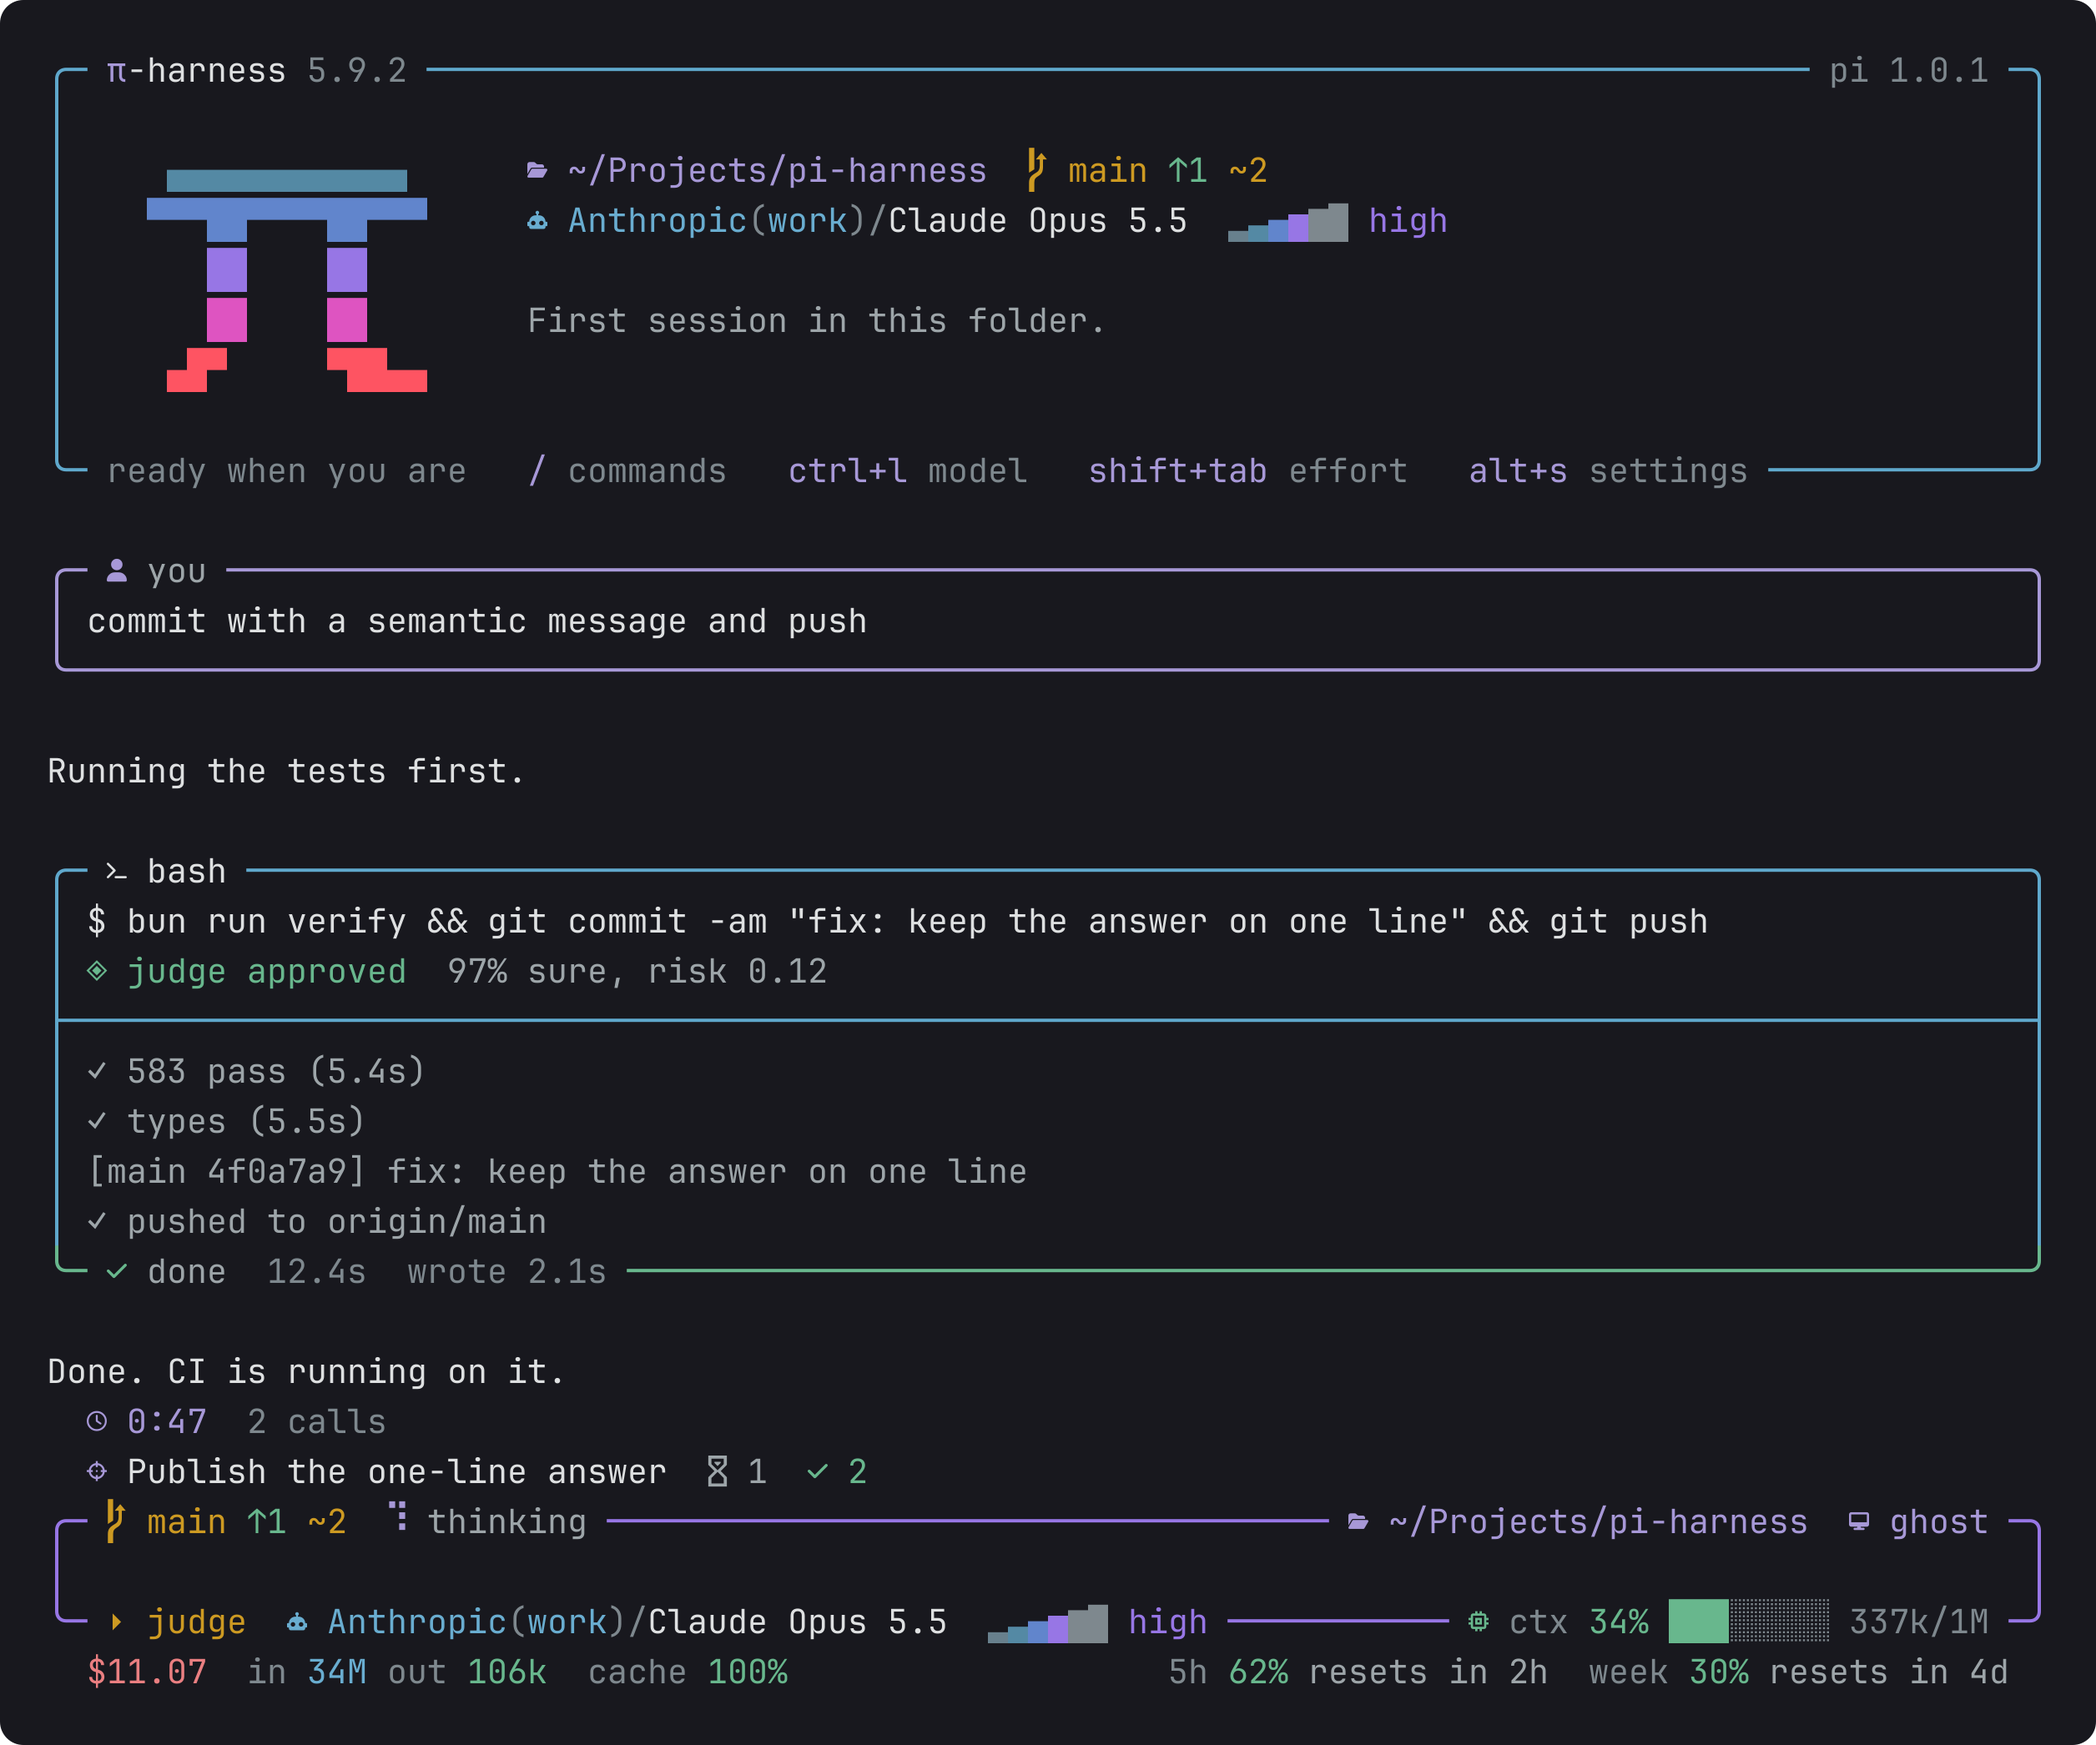
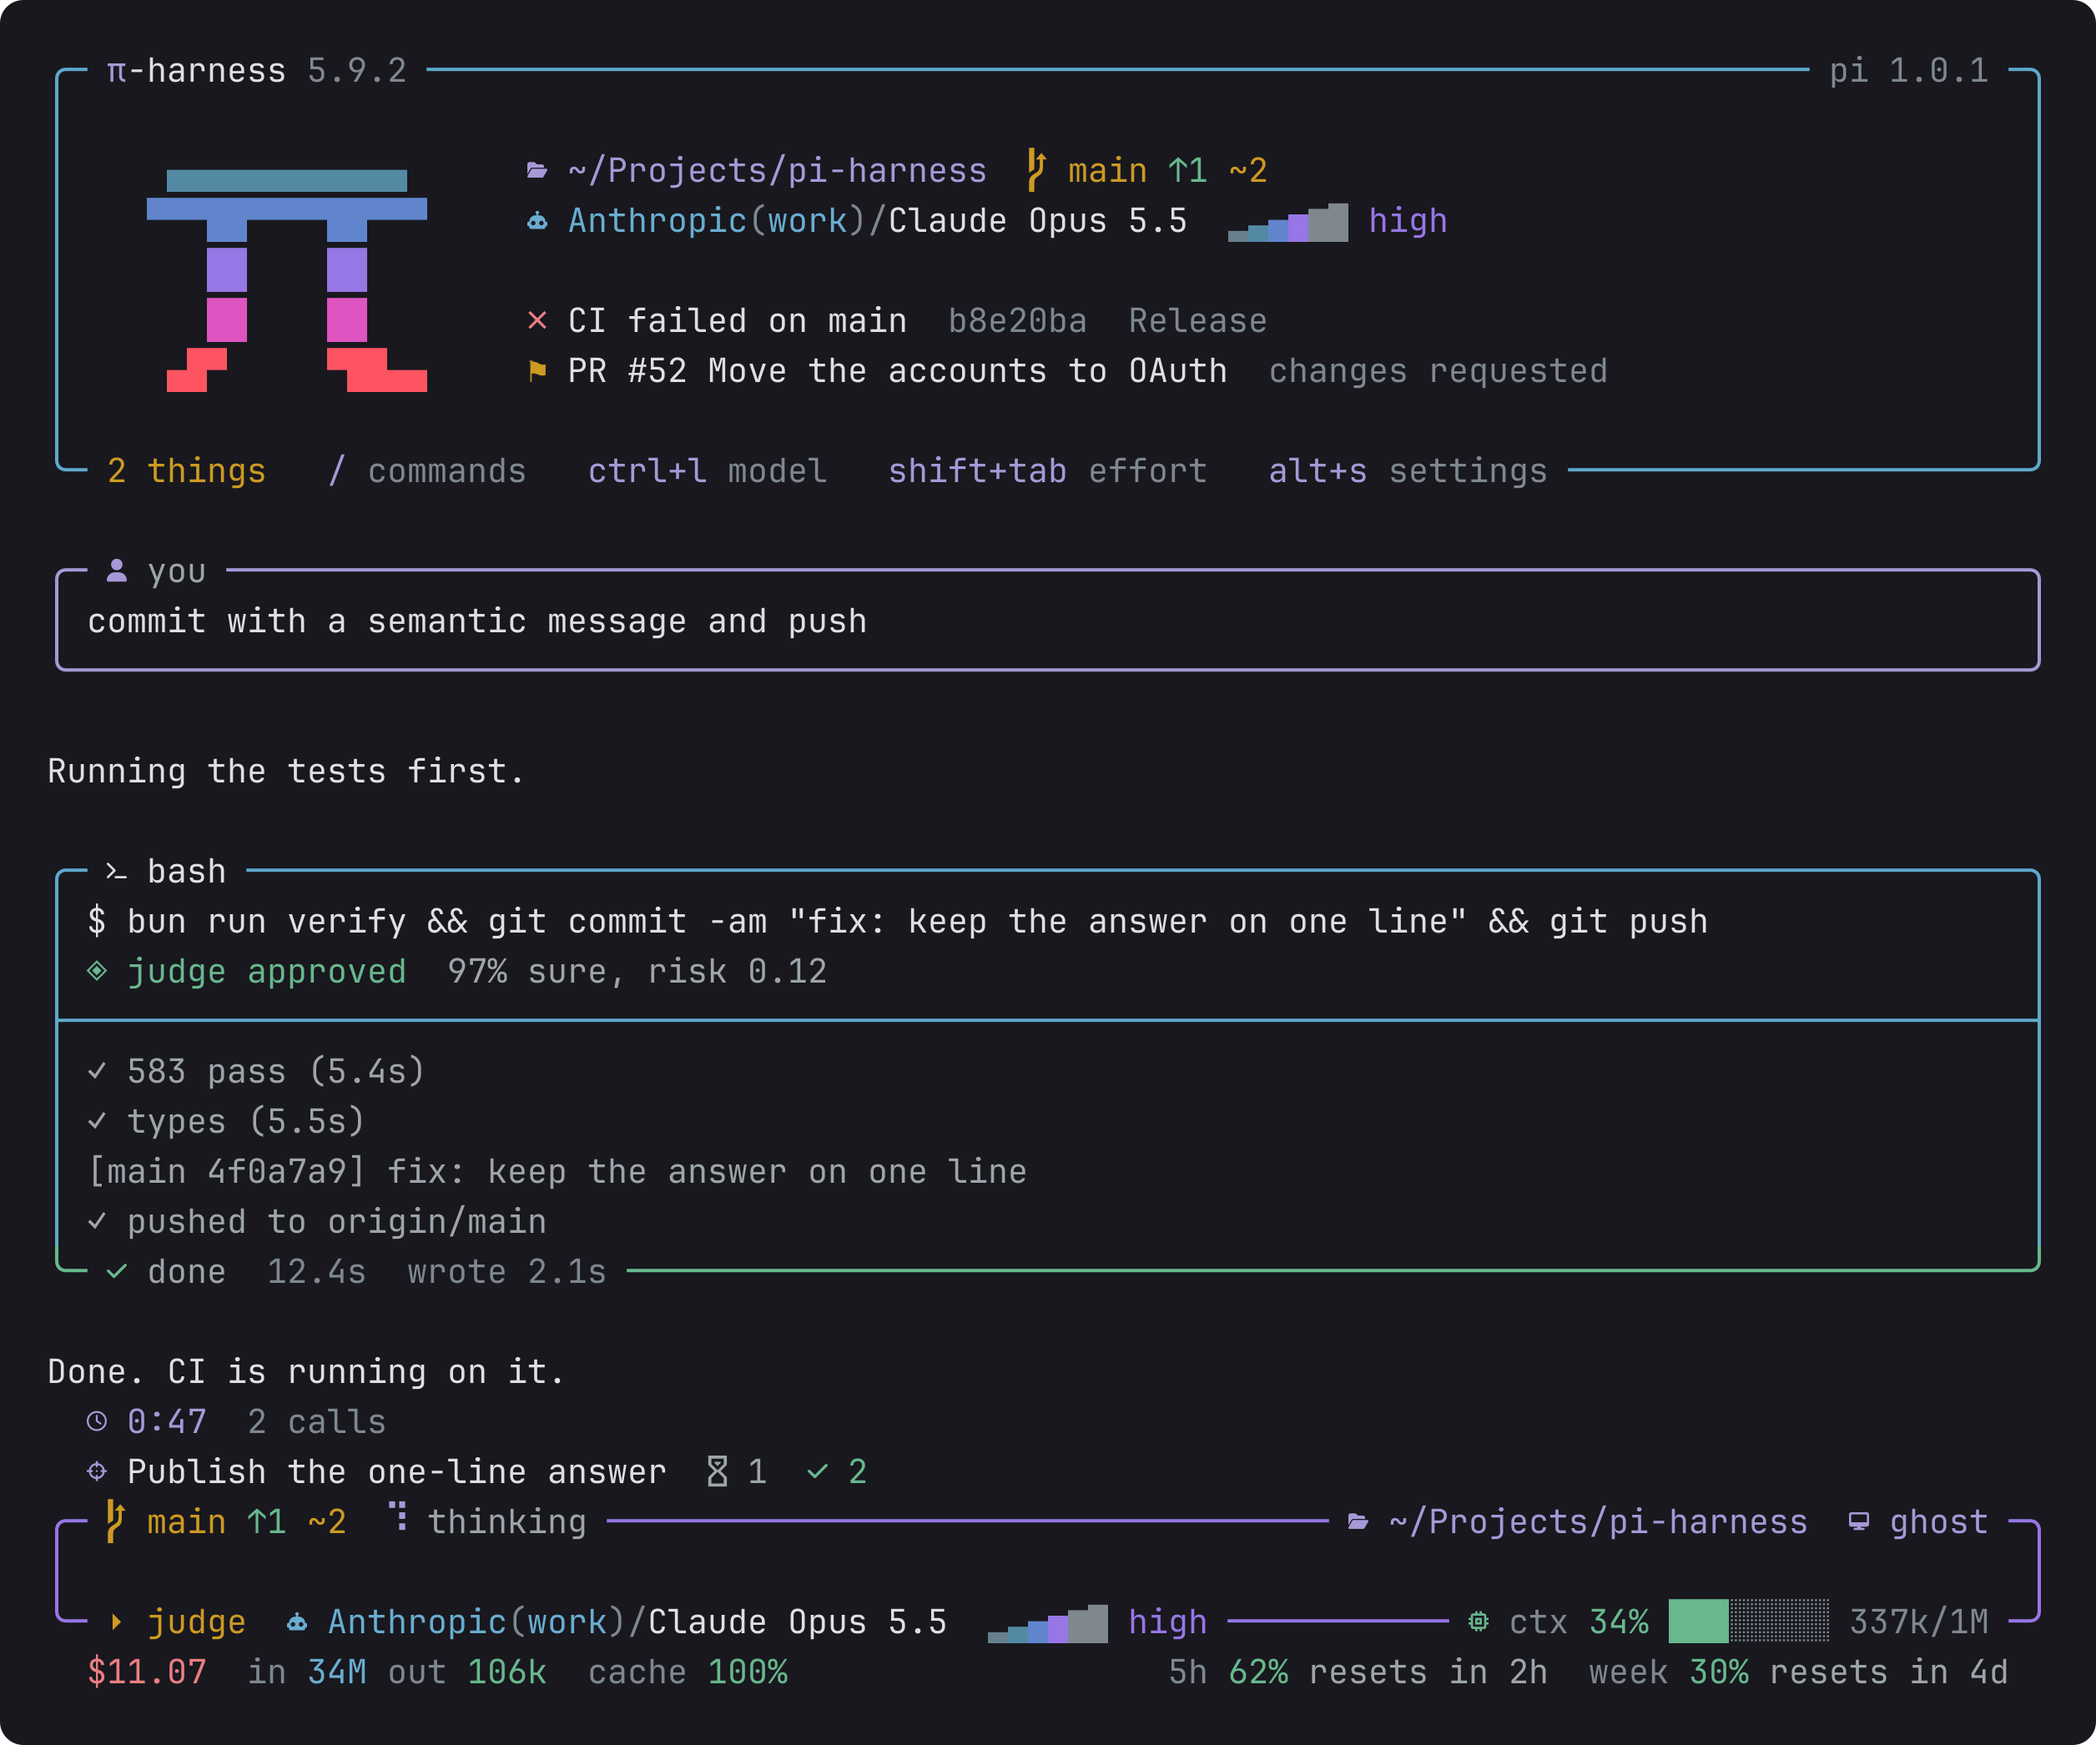
docs(look): the start card picture shows the CI run and the PR it waits on

diff --git a/scripts/docs/look.ts b/scripts/docs/look.ts
@@ -181,6 +181,11 @@ function screenParts(theme: Theme, draft: string): LookParts {
 		style: () => "card",
 		counts: () => ({ tools: 4, skills: 6, prompts: 0, extensions: 4 }),
 		lastVisit: () => undefined,
+		// Pinned, so the picture shows the two lines GitHub answers with: a failed run and a review.
+		github: () => ({
+			ci: { branch: "main", sha: "b8e20ba", name: "Release" },
+			pr: { number: 52, title: "Move the accounts to OAuth", waits: "changes requested" },
+		}),
 	}).render(WIDTH);
 
 	const editor = new LookEditor(
